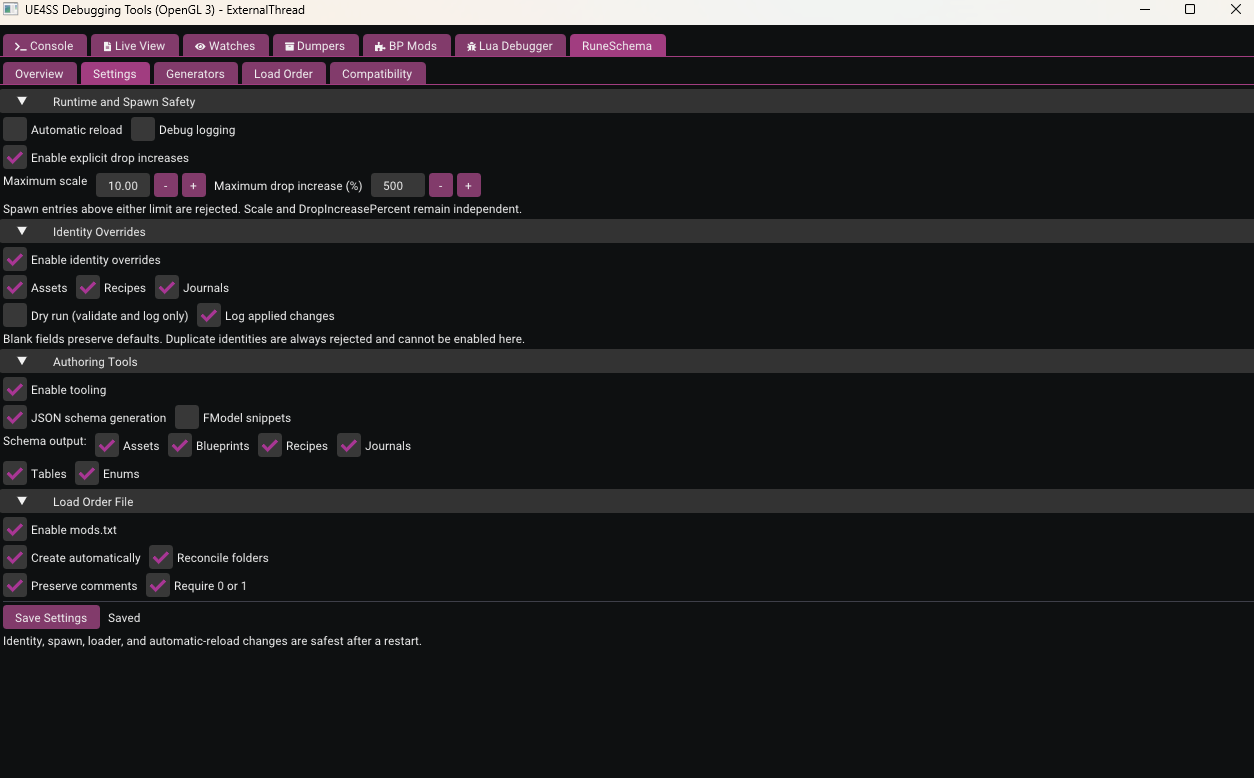
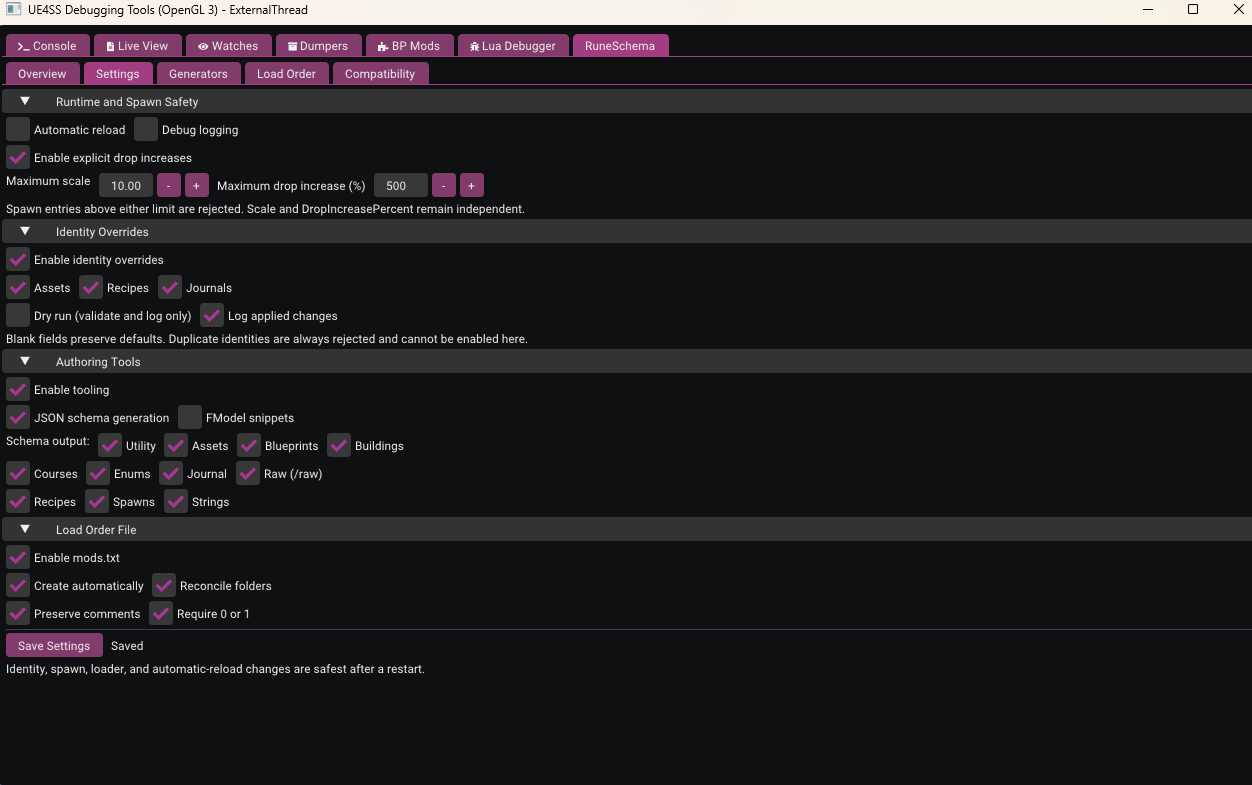
Refresh RuneSchema settings screenshot

Changed region(s): [[0.0, 0.0, 1.0, 0.8638]]

diff --git a/website/runeschema-variant.js b/website/runeschema-variant.js
@@ -99,7 +99,7 @@
 
   const gallery = [
     {title:"Overview", src:"assets/runeschema-experimental-v8/overview.png", alt:"Experimental RuneSchema Overview page", caption:"0.6.3 runtime status, detected mods, active paths, contributor credits, and tooling state."},
-    {title:"Settings", src:"assets/runeschema-experimental-v8/settings.png", alt:"Experimental RuneSchema Settings page", caption:"Spawn safety limits, independent drop scaling, identity overrides, authoring tools, and mods.txt behavior."},
+    {title:"Settings", src:"assets/runeschema-experimental-v8/settings.png?v=2", alt:"Experimental RuneSchema Settings page", caption:"Spawn safety limits, independent drop scaling, identity overrides, authoring tools, and mods.txt behavior."},
     {title:"Generators", src:"assets/runeschema-experimental-v8/generators.png", alt:"Experimental RuneSchema Generators page", caption:"On-demand JSON schemas and optional sanitized FModel draft snippets."},
     {title:"Load Order", src:"assets/runeschema-experimental-v8/load-order.png", alt:"Experimental RuneSchema Load Order page", caption:"Enable, disable, reorder, reconcile, refresh, and save the visible mods.txt contract."},
     {title:"Compatibility", src:"assets/runeschema-experimental-v8/compatibility.png", alt:"Experimental RuneSchema Compatibility page", caption:"Configure and run advisory collision reports only when requested."}

diff --git a/website/for-modders.html b/website/for-modders.html
@@ -481,7 +481,7 @@ Example Mod B : 0</code></pre>
 </dialog>
 </main>
 <footer class="site-footer"><div class="footer-brand"><img src="assets/application-icon.png" alt=""><div><strong>Dragonwilds Sync</strong><span>For Modders</span></div></div><div class="footer-links"><a href="helpy.html">Read Helpy</a><a href="launcher-preview.html">Preview Launcher</a><a href="https://github.com/gh0sted5456-us/Dragonwilds-Sync">GitHub</a></div><p>ID.txt is declarative metadata. Dragonwilds Sync never executes package metadata.</p></footer><script src="script.js?v=nav-rune-1"></script><script src="modders.js?v=1"></script><script src="downloads-flavor.js?v=1"></script>
-  <script src="runeschema-variant.js?v=12"></script>
+  <script src="runeschema-variant.js?v=13"></script>
 </body></html>
 
 
